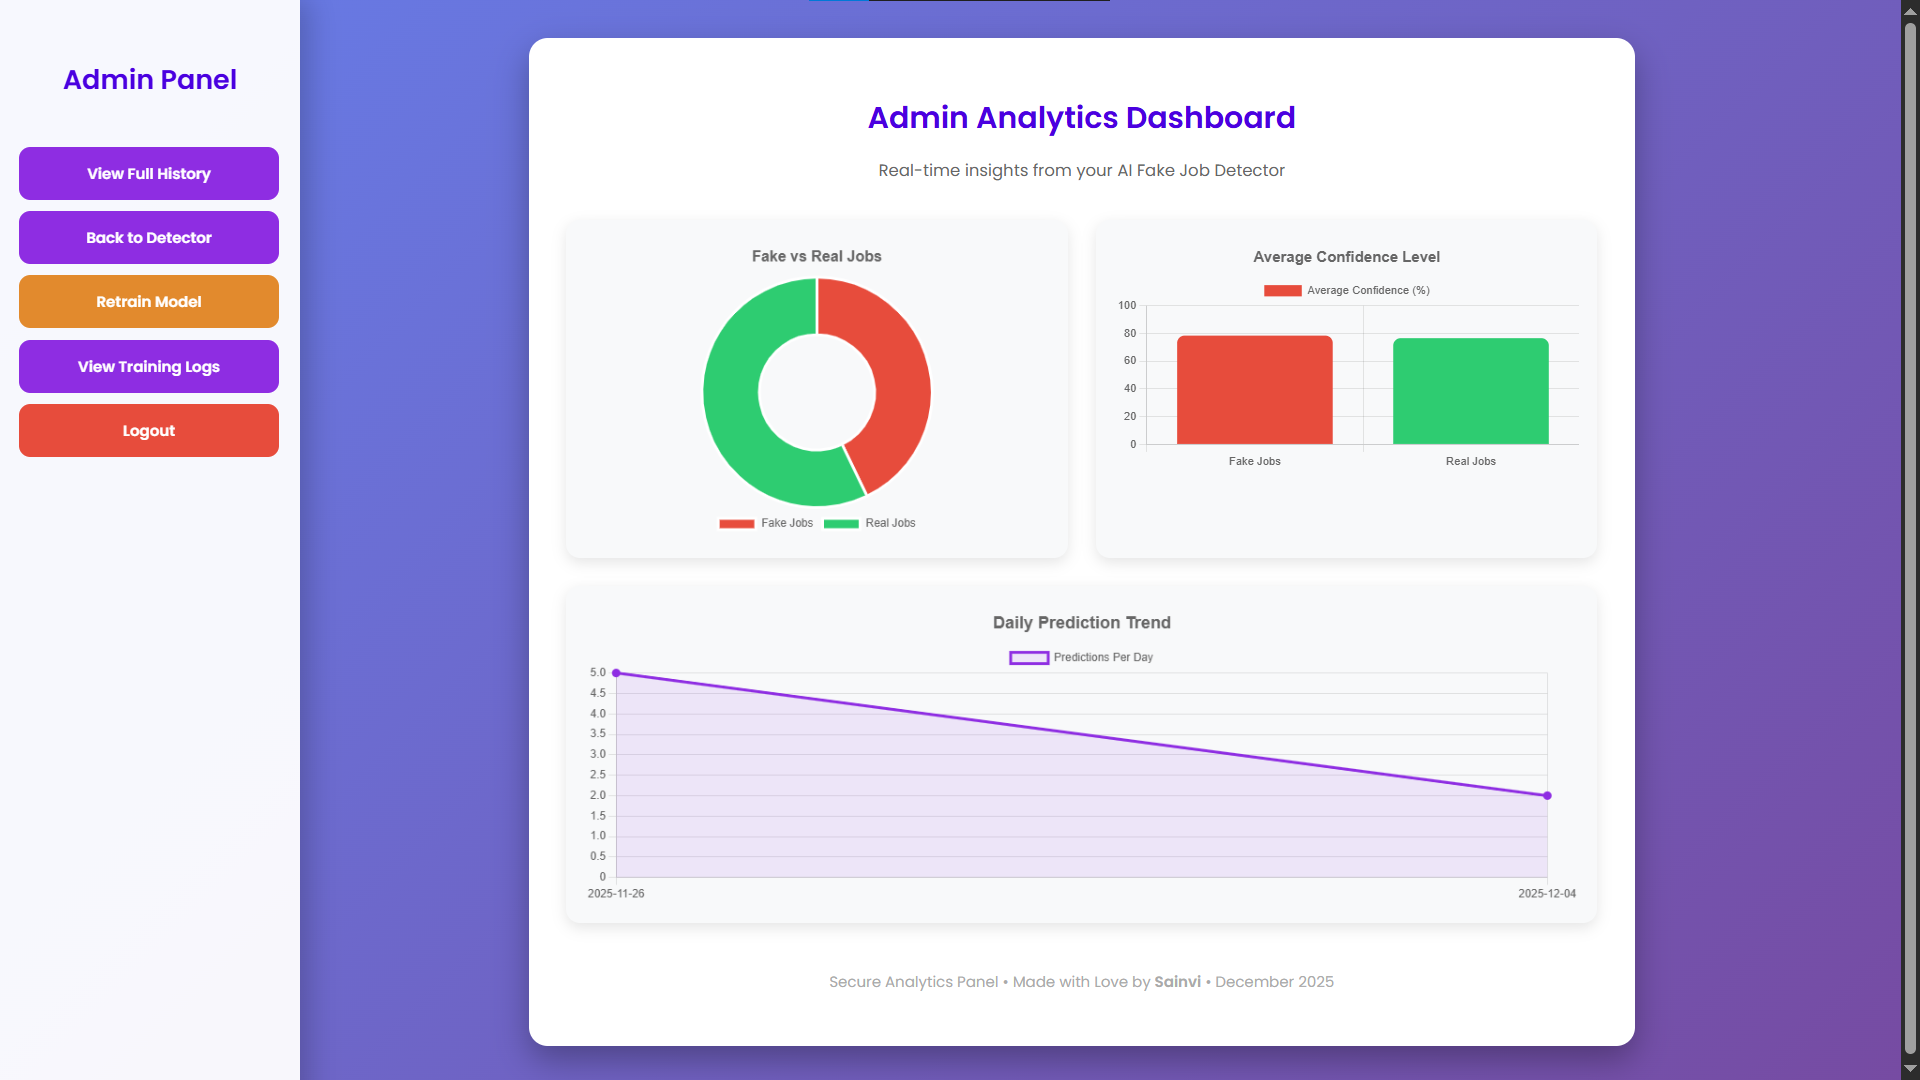
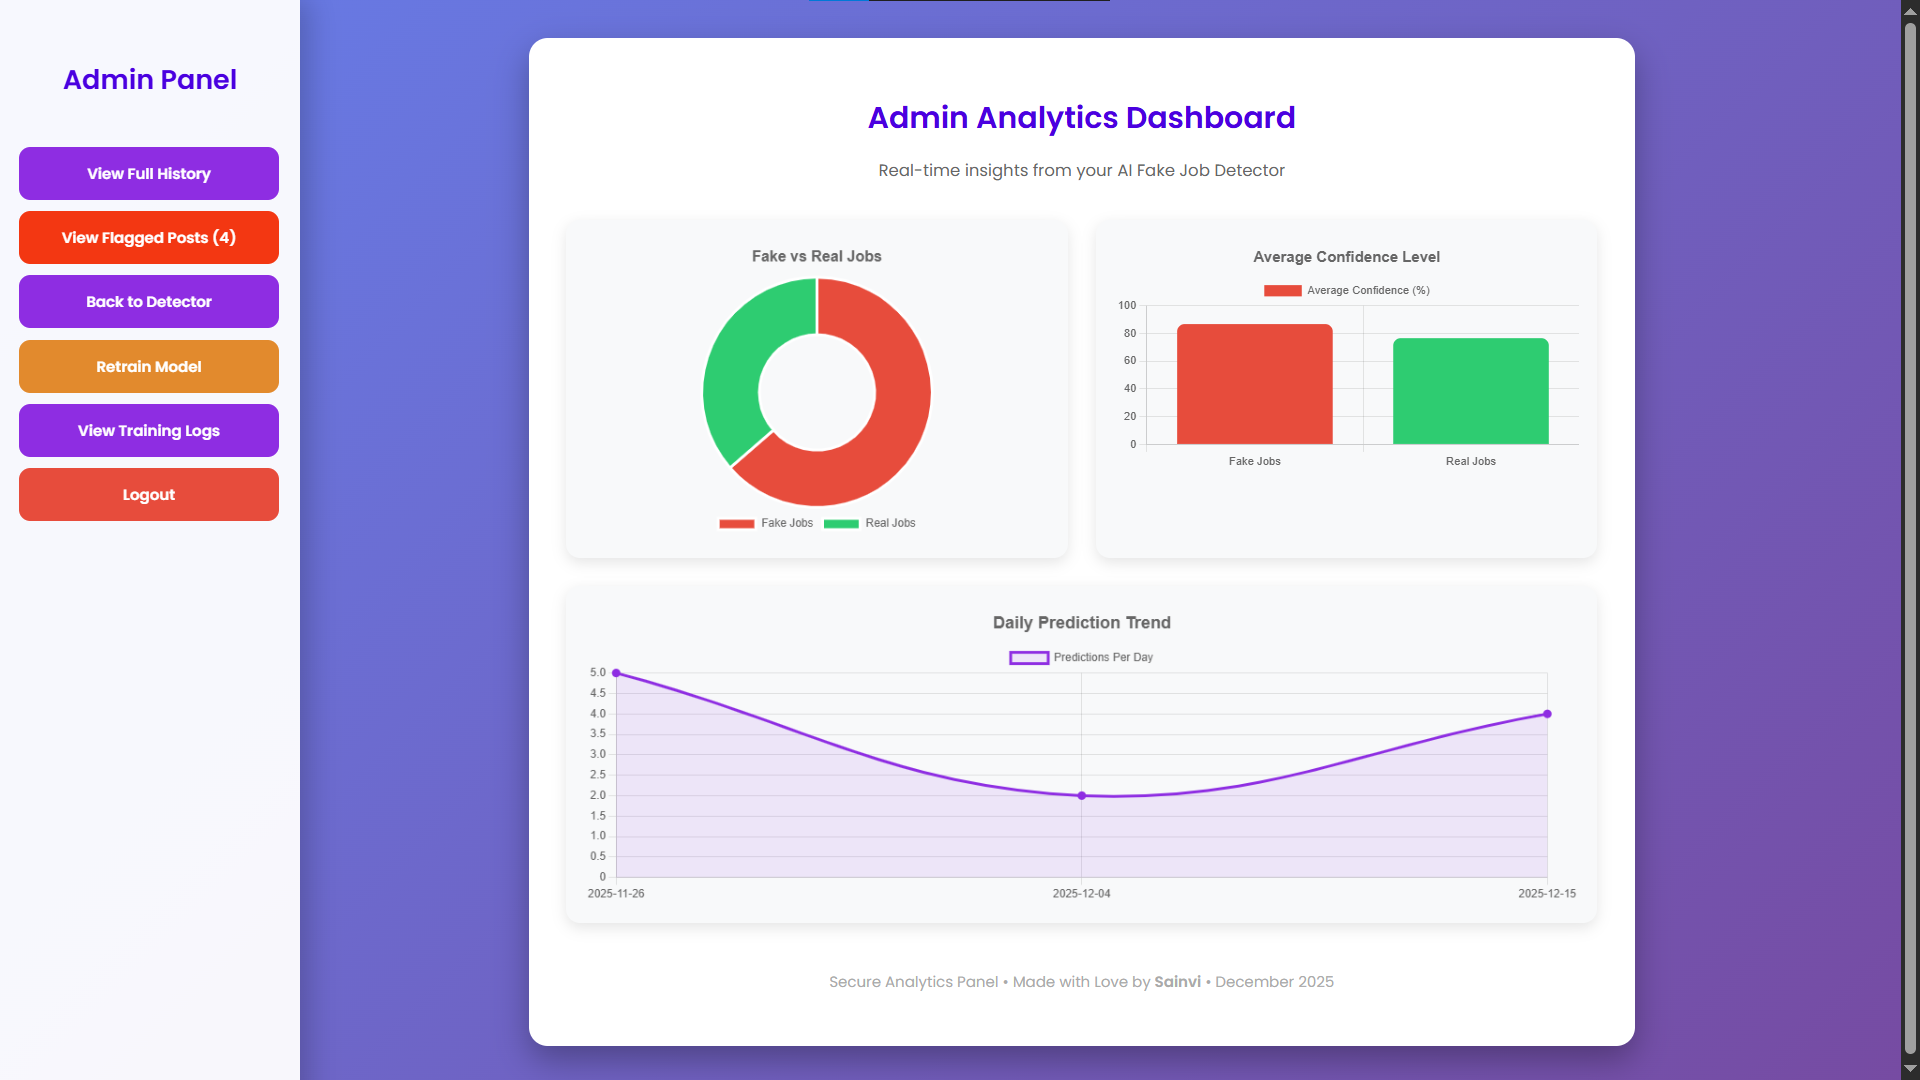
Add flagging option

diff --git a/templates/flagged.html b/templates/flagged.html
@@ -1,0 +1,123 @@
+<!DOCTYPE html>
+<html lang="en">
+  <head>
+    <meta charset="UTF-8" />
+    <title>Flagged Posts - Sainvi</title>
+    <link
+      href="https://fonts.googleapis.com/css2?family=Poppins:wght@400;600&display=swap"
+      rel="stylesheet"
+    />
+    <style>
+      body {
+        font-family: "Poppins", sans-serif;
+        background: linear-gradient(135deg, #667eea 0%, #764ba2 100%);
+        margin: 0;
+        padding: 40px;
+        min-height: 100vh;
+      }
+      .container {
+        max-width: 1100px;
+        margin: auto;
+        background: white;
+        padding: 40px;
+        border-radius: 20px;
+        box-shadow: 0 15px 35px rgba(0, 0, 0, 0.2);
+      }
+      h1 {
+        text-align: center;
+        color: #4a00e0;
+      }
+      table {
+        width: 100%;
+        border-collapse: collapse;
+        margin: 25px 0;
+        background: white;
+      }
+      th {
+        background: #8e2de2;
+        color: white;
+        padding: 15px;
+      }
+      td {
+        padding: 12px;
+        border-bottom: 1px solid #eee;
+      }
+      tr:hover {
+        background: #f8f9fa;
+      }
+      .fake {
+        color: #e74c3c;
+        font-weight: bold;
+      }
+      .real {
+        color: #27ae60;
+        font-weight: bold;
+      }
+      .back {
+        display: inline-block;
+        padding: 12px 30px;
+        background: #8e2de2;
+        color: white;
+        text-decoration: none;
+        border-radius: 12px;
+        font-weight: 600;
+      }
+      .back:hover {
+        background: #7919c2;
+      }
+      .no-flagged {
+        text-align: center;
+        color: #777;
+        font-size: 1.2em;
+      }
+      footer {
+        text-align: center;
+        margin-top: 50px;
+        color: #aaa;
+      }
+    </style>
+  </head>
+  <body>
+    <div class="container">
+      <h1>Flagged Predictions</h1>
+      <p style="text-align: center; color: #666">
+        All flagged jobs • Latest flagged first
+      </p>
+
+      {% if rows %}
+      <table>
+        <tr>
+          <th>Prediction Time</th>
+          <th>Job Description</th>
+          <th>Prediction</th>
+          <th>Confidence</th>
+          <th>Flag Reason</th>
+          <th>Flagged At</th>
+        </tr>
+        {% for row in rows %}
+        <tr>
+          <td>{{ row.timestamp }}</td>
+          <td>{{ row.job_description[:120] }}...</td>
+          <td class="{{ 'fake' if 'Fake' in row.prediction else 'real' }}">
+            {{ row.prediction }}
+          </td>
+          <td>{{ "%.2f"|format(row.confidence) }}%</td>
+          <td>{{ row.reason }}</td>
+          <td>{{ row.flag_time }}</td>
+        </tr>
+        {% endfor %}
+      </table>
+      {% else %}
+      <p class="no-flagged">No flagged predictions yet!</p>
+      {% endif %}
+
+      <div style="text-align: center; margin: 40px 0">
+        <a href="/admin_dashboard" class="back">Back to Dashboard</a>
+      </div>
+
+      <footer>
+        <p>Made with ❤ by <strong>Sainvi</strong> • December 2025</p>
+      </footer>
+    </div>
+  </body>
+</html>

diff --git a/templates/result.html b/templates/result.html
@@ -76,10 +76,18 @@
         text-decoration: none;
         border-radius: 12px;
         font-weight: 600;
-        margin: 20px;
+        margin: 20px 10px;
+        transition: 0.3s;
       }
       a:hover {
         background: #7919c2;
+        transform: translateY(-2px);
+      }
+      .flag-btn {
+        background: #f33712ff;
+      }
+      .flag-btn:hover {
+        background: #d9450bff;
       }
       .stats {
         background: #e8f5e8;
@@ -120,7 +128,38 @@
       </div>
 
       <a href="/">Check Another Job</a>
+      <a
+        href="#"
+        class="flag-btn"
+        id="flag-btn"
+        onclick="event.preventDefault(); flagPost({{ pred_id }});"
+      >
+        Flag as Suspicious
+      </a>
 
+      <script>
+        function flagPost(predId) {
+          const btn = document.getElementById("flag-btn");
+          btn.innerText = "Flagging...";
+          btn.style.pointerEvents = "none";
+          btn.style.opacity = "0.7";
+
+          fetch(`/flag/${predId}`, { method: "GET" })
+            .then((response) => {
+              if (response.ok) {
+                btn.innerText = "✅ Flagged Successfully!";
+                btn.style.background = "#27ae60";
+              } else {
+                btn.innerText = "Failed";
+                btn.style.background = "#e74c3c";
+              }
+            })
+            .catch(() => {
+              btn.innerText = "Error";
+              btn.style.background = "#e74c3c";
+            });
+        }
+      </script>
       <footer>
         <p>Made with ❤ by <strong>Sainvi</strong> • November 2025</p>
       </footer>

diff --git a/templates/admin_dashboard.html b/templates/admin_dashboard.html
@@ -66,6 +66,12 @@
       .nav-btn.logout:hover {
         background: #c0392b;
       }
+      .nav-btn.flagged {
+        background: #f33712ff;
+      }
+      .nav-btn.flagged:hover {
+        background: #d9450bff;
+      }
 
       /* MAIN CONTENT */
       .main-content {
@@ -122,6 +128,9 @@
     <div class="sidebar">
       <h2>Admin Panel</h2>
       <a href="/history" class="nav-btn">View Full History</a>
+      <a href="/flagged" class="nav-btn flagged"
+        >View Flagged Posts ({{ flagged }})</a
+      >
       <a href="/" class="nav-btn">Back to Detector</a>
       <a
         href="javascript:void(0)"

diff --git a/app.py b/app.py
@@ -1,4 +1,4 @@
-# FINAL FAKE JOB DETECTOR - NOVEMBER 2025
+# FINAL FAKE JOB DETECTOR - DECEMBER 2025 (WITH FULL FLAG FEATURE)
 
 from flask import Flask, render_template, request, redirect, session, send_file, Response, jsonify
 import joblib, sqlite3, pandas as pd, os
@@ -86,26 +86,33 @@ def predict():
     return render_template('result.html', label=label, confidence=confidence,
                            description=desc, pred_id=pred_id, fake=fake, real=real)
 
-@app.route('/flag/<int:pred_id>')
+@app.route('/flag/<int:pred_id>', methods=['GET', 'POST'])
 def flag(pred_id):
     with sqlite3.connect(DB_NAME) as conn:
-        conn.execute("INSERT INTO flagged (prediction_id) VALUES (?)", (pred_id,))
-    return "<script>alert('Flagged! Admin will review.'); window.location='/'</script>"
+        # Prevent duplicate flags (optional but good)
+        exists = conn.execute("SELECT 1 FROM flagged WHERE prediction_id = ?", (pred_id,)).fetchone()
+        if not exists:
+            conn.execute("INSERT INTO flagged (prediction_id) VALUES (?)", (pred_id,))
+            conn.commit()
+    
+    return redirect('/')
 
-@app.route('/history')
-def history():
+@app.route('/flagged')
+def flagged():
+    if not session.get('admin'):
+        return redirect('/admin_login')
+    
     with sqlite3.connect(DB_NAME) as conn:
-        cur = conn.execute("SELECT job_description, prediction, confidence, timestamp FROM predictions ORDER BY id DESC")
-        records = cur.fetchall()
-    return render_template('history.html', records=records)
-
-@app.route('/export_csv')
-def export_csv():
-    with sqlite3.connect(DB_NAME) as conn:
-        df = pd.read_sql_query("SELECT * FROM predictions ORDER BY timestamp DESC", conn)
-    output = df.to_csv(index=False)
-    return Response(output, mimetype="text/csv",
-                    headers={"Content-disposition": "attachment; filename=fake_job_predictions.csv"})
+        conn.row_factory = sqlite3.Row
+        cur = conn.cursor()
+        cur.execute("""
+            SELECT p.id, p.job_description, p.prediction, p.confidence, p.timestamp, f.reason, f.timestamp as flag_time
+            FROM flagged f JOIN predictions p ON f.prediction_id = p.id
+            ORDER BY f.timestamp DESC
+        """)
+        rows = cur.fetchall()
+    
+    return render_template('flagged.html', rows=rows)
 
 @app.route('/admin_login', methods=['GET', 'POST'])
 def admin_login():
